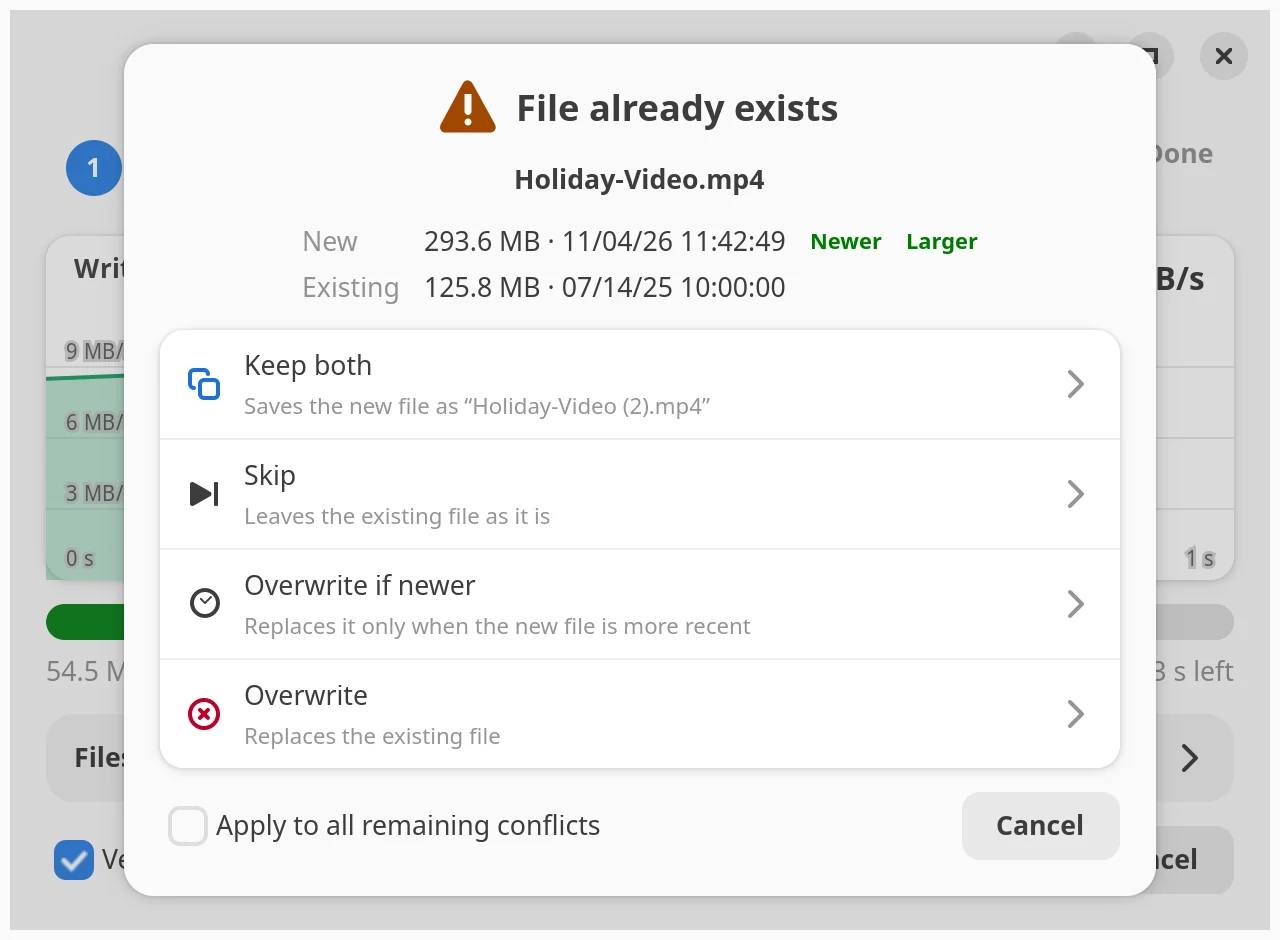
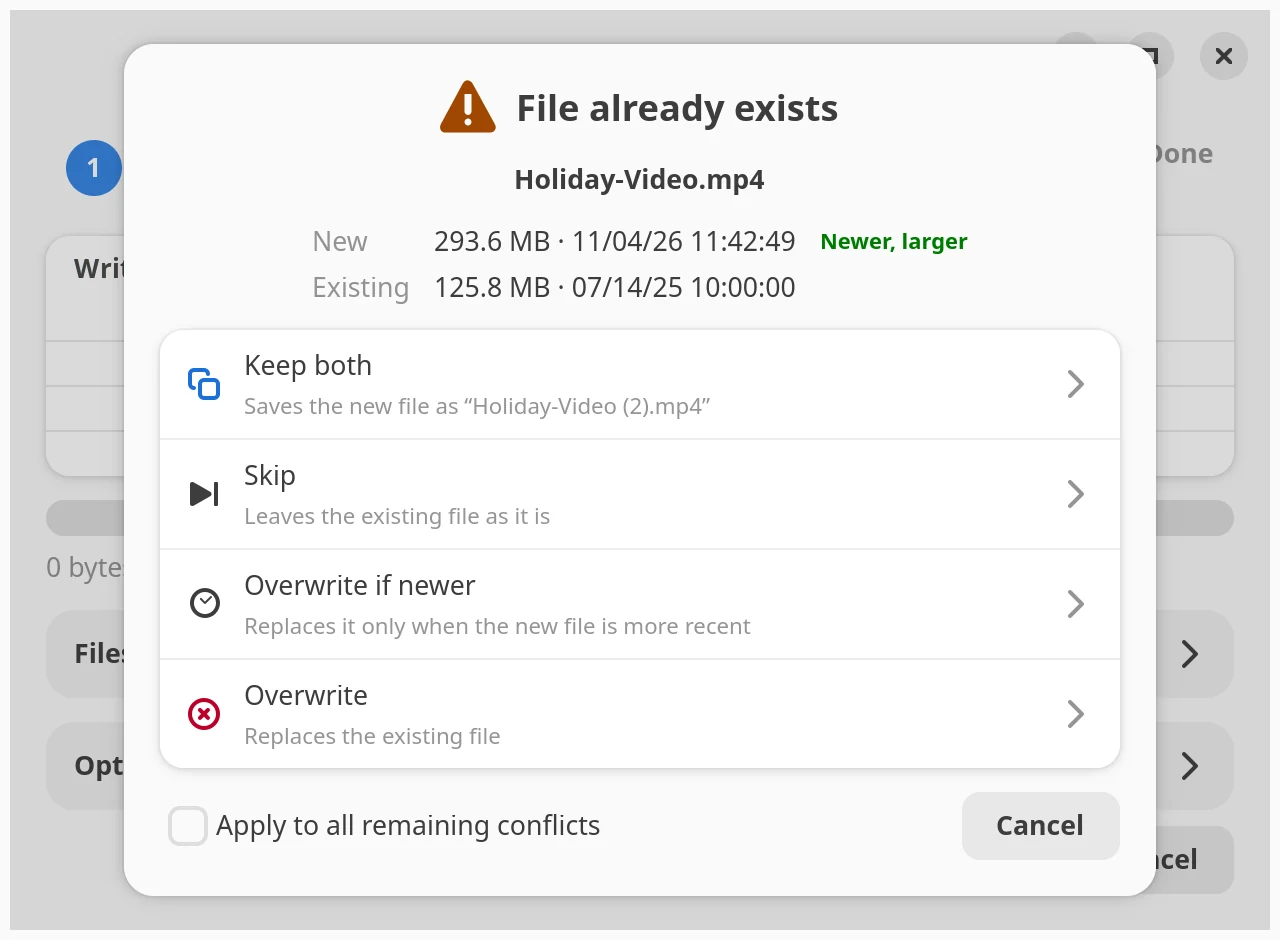
feat: screenshot carousel, the features of 1.2, current images

diff --git a/index.html b/index.html
@@ -122,6 +122,30 @@ h2{margin:0 0 14px;color:var(--white);font-size:clamp(30px,4vw,44px);line-height
 .gallery figcaption{margin-top:12px;color:var(--sub);font-size:15.5px;text-align:center}
 @media(max-width:800px){.gallery{grid-template-columns:1fr;max-width:460px;margin-inline:auto}}
 
+/* with script: a carousel, the next and previous screenshot peek in from the sides (without script the grid above stays) */
+.gallery.is-slider{display:block;position:relative;max-width:none;margin:0;overflow:hidden;padding:6px 0 4px;
+  -webkit-mask-image:linear-gradient(90deg,transparent,#000 9%,#000 91%,transparent);mask-image:linear-gradient(90deg,transparent,#000 9%,#000 91%,transparent)}
+.gallery.is-slider .track{display:flex;align-items:flex-start;gap:36px;transition:transform .6s cubic-bezier(.3,.7,.2,1);will-change:transform;touch-action:pan-y}
+.gallery.is-slider figure{flex:none;margin:0;opacity:.35;transform:scale(.93);transform-origin:50% 40%;transition:opacity .5s,transform .5s;cursor:pointer}
+.gallery.is-slider figure.on{opacity:1;transform:none;cursor:default}
+.gallery.is-slider img{width:auto;height:min(560px,68vh);max-width:none;margin-inline:auto}
+.gallery.is-slider figcaption{opacity:0;transition:opacity .4s}
+.gallery.is-slider figure.on figcaption{opacity:1}
+.stage{position:relative}
+.nav-btn{position:absolute;top:calc(50% - 40px);z-index:2;width:46px;height:46px;border-radius:50%;border:1px solid var(--panel-line);background:rgba(8,22,44,.78);color:var(--white);cursor:pointer;display:grid;place-items:center;backdrop-filter:blur(4px);transition:background .2s,border-color .2s}
+.nav-btn:hover{background:rgba(38,162,105,.75);border-color:var(--green)}
+.nav-btn:focus-visible{outline:2px solid var(--green);outline-offset:2px}
+.nav-btn svg{width:22px;height:22px}
+.nav-btn.prev{left:max(0px,calc(50% - 400px))}.nav-btn.next{right:max(0px,calc(50% - 400px))}
+@media(max-width:700px){.nav-btn{width:38px;height:38px;top:calc(50% - 36px)}.nav-btn.prev{left:4px}.nav-btn.next{right:4px}}
+.dots{display:flex;justify-content:center;gap:6px;margin-top:22px}
+.dots button{width:30px;height:30px;padding:0;border:0;background:none;cursor:pointer;display:grid;place-items:center;border-radius:50%}
+.dots button::before{content:"";width:12px;height:12px;border-radius:50%;background:rgba(150,188,220,.35);transition:background .25s,transform .25s}
+.dots button:hover::before{background:rgba(150,188,220,.7)}
+.dots button[aria-current=true]::before{background:var(--green);transform:scale(1.2)}
+.dots button:focus-visible{outline:2px solid var(--green);outline-offset:1px}
+@media(prefers-reduced-motion:reduce){.gallery.is-slider .track,.gallery.is-slider figure,.gallery.is-slider figcaption{transition:none}}
+
 /* install */
 .install .box{display:grid;grid-template-columns:minmax(0,1fr) minmax(0,1fr);gap:40px;align-items:start}
 .codewrap{position:relative}
@@ -187,7 +211,7 @@ footer .links{display:flex;flex-wrap:wrap;gap:22px}
     <p class="intro">Normal copying assumes the copy is fine. TrustCopy checks, so a bad copy is reported instead of discovered months later.</p>
     <div class="steps">
       <div class="step"><h3>Copy</h3><p>Every file is hashed while it is read, so the checksum costs almost no extra time.</p></div>
-      <div class="step"><h3>Verify</h3><p>The copy is flushed, read back from the disk and compared. CRC32, BLAKE2b or SHA-256.</p></div>
+      <div class="step"><h3>Verify</h3><p>The copy is flushed, read back from the disk and compared. CRC32 or SHA-256.</p></div>
       <div class="step"><h3>Done</h3><p>A bad copy never replaces your old file. A moved source goes only after its own copy is verified.</p></div>
     </div>
   </div>
@@ -199,12 +223,15 @@ footer .links{display:flex;flex-wrap:wrap;gap:22px}
     <h2>Everything a file copy should do.</h2>
     <p class="intro">Small, native and out of your way until you need it.</p>
     <div class="grid">
-      <div class="card"><h3><i>✔</i>Verified copies</h3><p>Each copy is read back from the disk and compared. Pick CRC32 (fast, default), BLAKE2b or SHA-256.</p></div>
+      <div class="card"><h3><i>✔</i>Verified copies</h3><p>Each copy is read back from the disk and compared. Pick CRC32 (fast, default) or SHA-256.</p></div>
       <div class="card"><h3><i>➜</i>Safe moves</h3><p>A source is deleted only after its own copy has been verified.</p></div>
       <div class="card"><h3><i>◔</i>A live view</h3><p>Three steps, a speed graph, time remaining and a status for every file.</p></div>
       <div class="card"><h3><i>⛨</i>No half-written files</h3><p>A cancel or a power cut never leaves a damaged file under its real name.</p></div>
       <div class="card"><h3><i>≡</i>Checksum file</h3><p>Optional <code>SHA256SUMS</code> in the target folder, ready for HashTally or <code>sha256sum -c</code>.</p></div>
-      <div class="card"><h3><i>⚖</i>Conflicts your way</h3><p>Ask each time (keep both, skip, overwrite if newer, overwrite) or set a rule.</p></div>
+      <div class="card"><h3><i>⚖</i>Conflicts your way</h3><p>Ask each time (keep both, skip, overwrite if newer, overwrite) or set a rule. A colour-coded hint compares the two files for you.</p></div>
+      <div class="card"><h3><i>◌</i>Sparse files stay sparse</h3><p>A VM disk or a preallocated download keeps its holes on the target; only its data is read and written.</p></div>
+      <div class="card"><h3><i>⏻</i>Switch off when done</h3><p>After a long job the computer can suspend or shut down, after a countdown you can cancel.</p></div>
+      <div class="card"><h3><i>⏱</i>Speed test</h3><p>Shows which checksum is fastest on your computer and recommends the fastest secure one.</p></div>
       <div class="card"><h3><i>❚❚</i>Pause, resume, queue</h3><p>Jobs run one after the other. Errors are retried, and “Retry failed” repeats only those files.</p></div>
       <div class="card"><h3><i>◐</i>Native look</h3><p>GTK 4 and libadwaita, light and dark, in ten languages.</p></div>
       <div class="card"><h3><i>›_</i>Command line too</h3><p><code>trustcopy copy --to /media/usb ~/Pictures</code>, with plain-text output and clear exit codes.</p></div>
@@ -218,9 +245,13 @@ footer .links{display:flex;flex-wrap:wrap;gap:22px}
     <h2>Looks like it belongs.</h2>
     <p class="intro">Follows your system theme, light or dark.</p>
     <div class="gallery">
-      <figure><img src="img/running-light.webp" alt="Copying" loading="lazy" width="1280" height="940"><figcaption>Copying, with live speed graph</figcaption></figure>
-      <figure><img src="img/conflict-light.webp" alt="File already exists dialog" loading="lazy" width="1280" height="940"><figcaption>A file that already exists</figcaption></figure>
-      <figure><img src="img/settings-light.webp" alt="Settings window" loading="lazy" width="1400" height="1010"><figcaption>Settings</figcaption></figure>
+      <figure><img src="img/running-light.webp" alt="Copying: steps, live speed graph and progress" loading="lazy" width="1280" height="940"><figcaption>Copying, with live speed graph</figcaption></figure>
+      <figure><img src="img/options-light.webp" alt="The options of a running job: verify, checksum file and what to do when finished" loading="lazy" width="1280" height="1284"><figcaption>Options of a running job</figcaption></figure>
+      <figure><img src="img/done-light.webp" alt="Done: all files verified, with write and read speed" loading="lazy" width="1280" height="1082"><figcaption>Done, with write and read speed</figcaption></figure>
+      <figure><img src="img/conflict-light.webp" alt="The dialog for a file that already exists, with a comparison of the two files" loading="lazy" width="1280" height="940"><figcaption>A file that already exists</figcaption></figure>
+      <figure><img src="img/settings-light.webp" alt="The settings of the Copying page" loading="lazy" width="1400" height="1520"><figcaption>Settings</figcaption></figure>
+      <figure><img src="img/speed-light.webp" alt="The speed test: a bar per algorithm and a recommendation" loading="lazy" width="1276" height="1073"><figcaption>Which checksum is fastest here</figcaption></figure>
+      <figure><img src="img/power-light.webp" alt="The countdown before the computer shuts down" loading="lazy" width="592" height="577"><figcaption>Switching off when done</figcaption></figure>
     </div>
   </div>
 </section>
@@ -267,6 +298,67 @@ wget -qO- https://github.com/DigitGram/trustcopy/releases/latest/download/instal
 </footer>
 
 <script>
+(function () {
+  var box = document.querySelector('.gallery'), slides = box ? Array.prototype.slice.call(box.querySelectorAll('figure')) : [];
+  if (slides.length < 2) return;
+  var now = 0, timer = null, paused = false, seen = false;
+  var stage = document.createElement('div'); stage.className = 'stage';
+  var track = document.createElement('div'); track.className = 'track';
+  box.parentNode.insertBefore(stage, box); stage.appendChild(box);
+  slides.forEach(function (f) { track.appendChild(f); });
+  box.appendChild(track); box.classList.add('is-slider');
+  var arrow = 'M14.5 5.5 8 12l6.5 6.5';  // chevron, mirrored for "next"
+  function button(cls, label, flip) {
+    var b = document.createElement('button'); b.type = 'button'; b.className = 'nav-btn ' + cls; b.setAttribute('aria-label', label);
+    b.innerHTML = '<svg viewBox="0 0 24 24" fill="none" stroke="currentColor" stroke-width="2.4" stroke-linecap="round" stroke-linejoin="round"' + (flip ? ' style="transform:scaleX(-1)"' : '') + '><path d="' + arrow + '"/></svg>';
+    return b;
+  }
+  var prev = button('prev', 'Previous screenshot', false), next = button('next', 'Next screenshot', true);
+  stage.appendChild(prev); stage.appendChild(next);
+  var dots = document.createElement('div'); dots.className = 'dots'; stage.appendChild(dots);
+  slides.forEach(function (fig, i) {
+    fig.querySelector('img').loading = 'eager';
+    var b = document.createElement('button'); b.type = 'button';
+    b.setAttribute('aria-label', 'Screenshot ' + (i + 1) + ' of ' + slides.length + ': ' + fig.querySelector('figcaption').textContent);
+    b.addEventListener('click', function () { go(i); });
+    dots.appendChild(b);
+    fig.addEventListener('click', function () { if (i !== now) go(i); });  // a click on the peeking neighbour
+  });
+  function place() {  // slide the track so that the current screenshot sits in the middle
+    var f = slides[now];
+    track.style.transform = 'translateX(' + Math.round(box.clientWidth / 2 - (f.offsetLeft + f.offsetWidth / 2)) + 'px)';
+  }
+  function show(i) {
+    now = (i + slides.length) % slides.length;
+    slides.forEach(function (f, k) { f.classList.toggle('on', k === now); f.setAttribute('aria-hidden', k === now ? 'false' : 'true'); });
+    Array.prototype.forEach.call(dots.childNodes, function (d, k) { d.setAttribute('aria-current', k === now ? 'true' : 'false'); });
+    place();
+  }
+  function restart() { clearInterval(timer); if (!paused && seen) timer = setInterval(function () { show(now + 1); }, 5000); }
+  function go(i) { show(i); restart(); }
+  prev.addEventListener('click', function () { go(now - 1); });
+  next.addEventListener('click', function () { go(now + 1); });
+  document.addEventListener('keydown', function (e) {  // left and right arrow while the gallery is in view
+    if (!seen || e.altKey || e.ctrlKey || e.metaKey || e.shiftKey) return;
+    var t = e.target && e.target.tagName;
+    if (t === 'INPUT' || t === 'TEXTAREA' || t === 'SELECT') return;
+    if (e.key === 'ArrowRight') { go(now + 1); e.preventDefault(); }
+    else if (e.key === 'ArrowLeft') { go(now - 1); e.preventDefault(); }
+  });
+  var x0 = null;  // swipe
+  box.addEventListener('touchstart', function (e) { x0 = e.touches[0].clientX; paused = true; }, { passive: true });
+  box.addEventListener('touchend', function (e) {
+    if (x0 !== null) { var dx = e.changedTouches[0].clientX - x0; if (Math.abs(dx) > 40) go(now + (dx < 0 ? 1 : -1)); }
+    x0 = null; paused = false; restart();
+  });
+  window.addEventListener('resize', place);
+  window.addEventListener('load', place);  // the widths are known once the pictures are in
+  if (window.ResizeObserver) new ResizeObserver(place).observe(track);
+  slides.forEach(function (f) { f.querySelector('img').addEventListener('load', place); });
+  if ('IntersectionObserver' in window) new IntersectionObserver(function (en) { seen = en[0].isIntersecting; restart(); }).observe(stage);
+  else seen = true;
+  show(0); restart();
+})();
 document.querySelector('.copy').addEventListener('click', function () {
   var b = this, text = 'curl -fsSL https://github.com/DigitGram/trustcopy/releases/latest/download/install.sh | bash';
   (navigator.clipboard ? navigator.clipboard.writeText(text) : Promise.reject()).then(function () {
